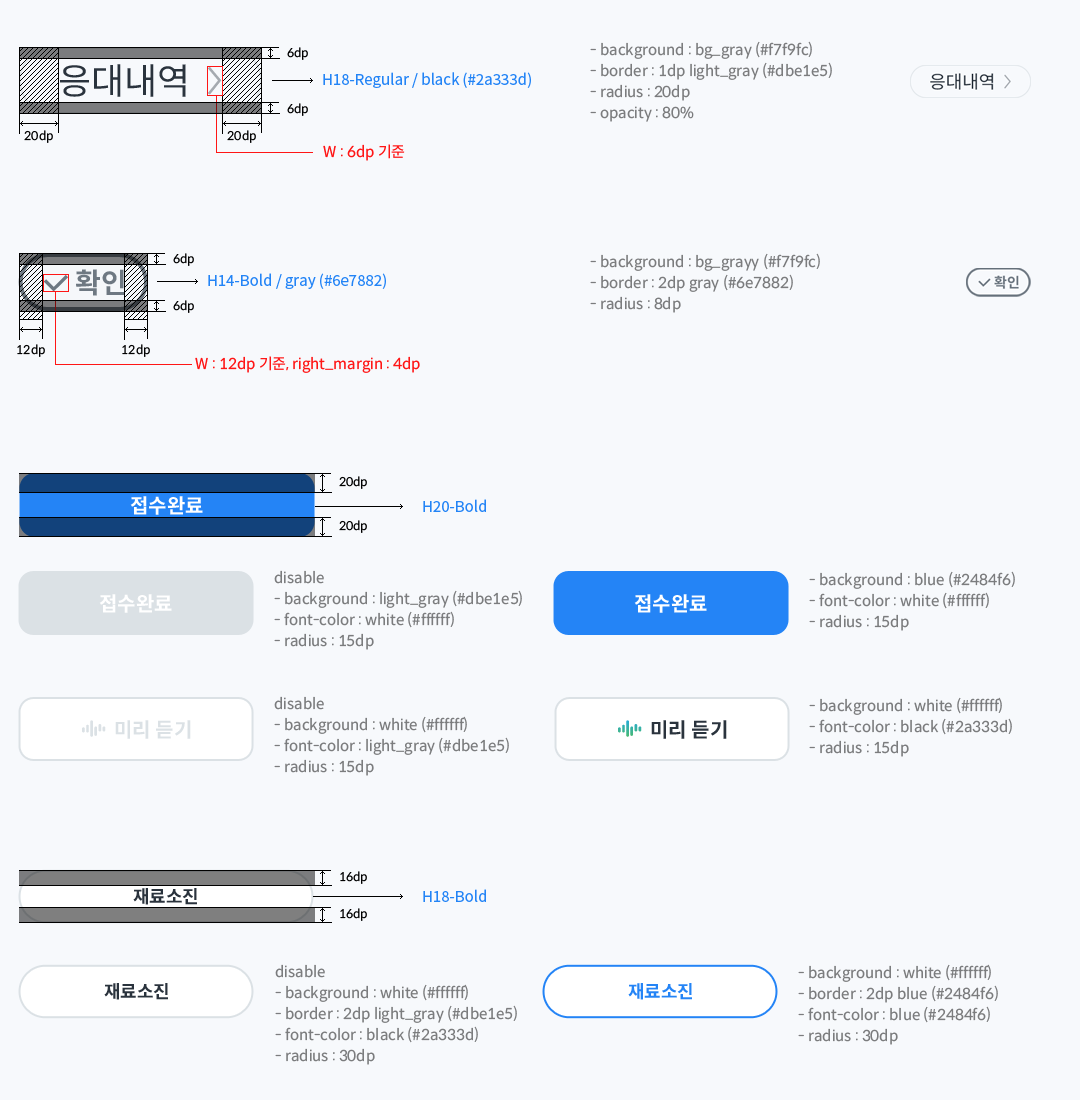
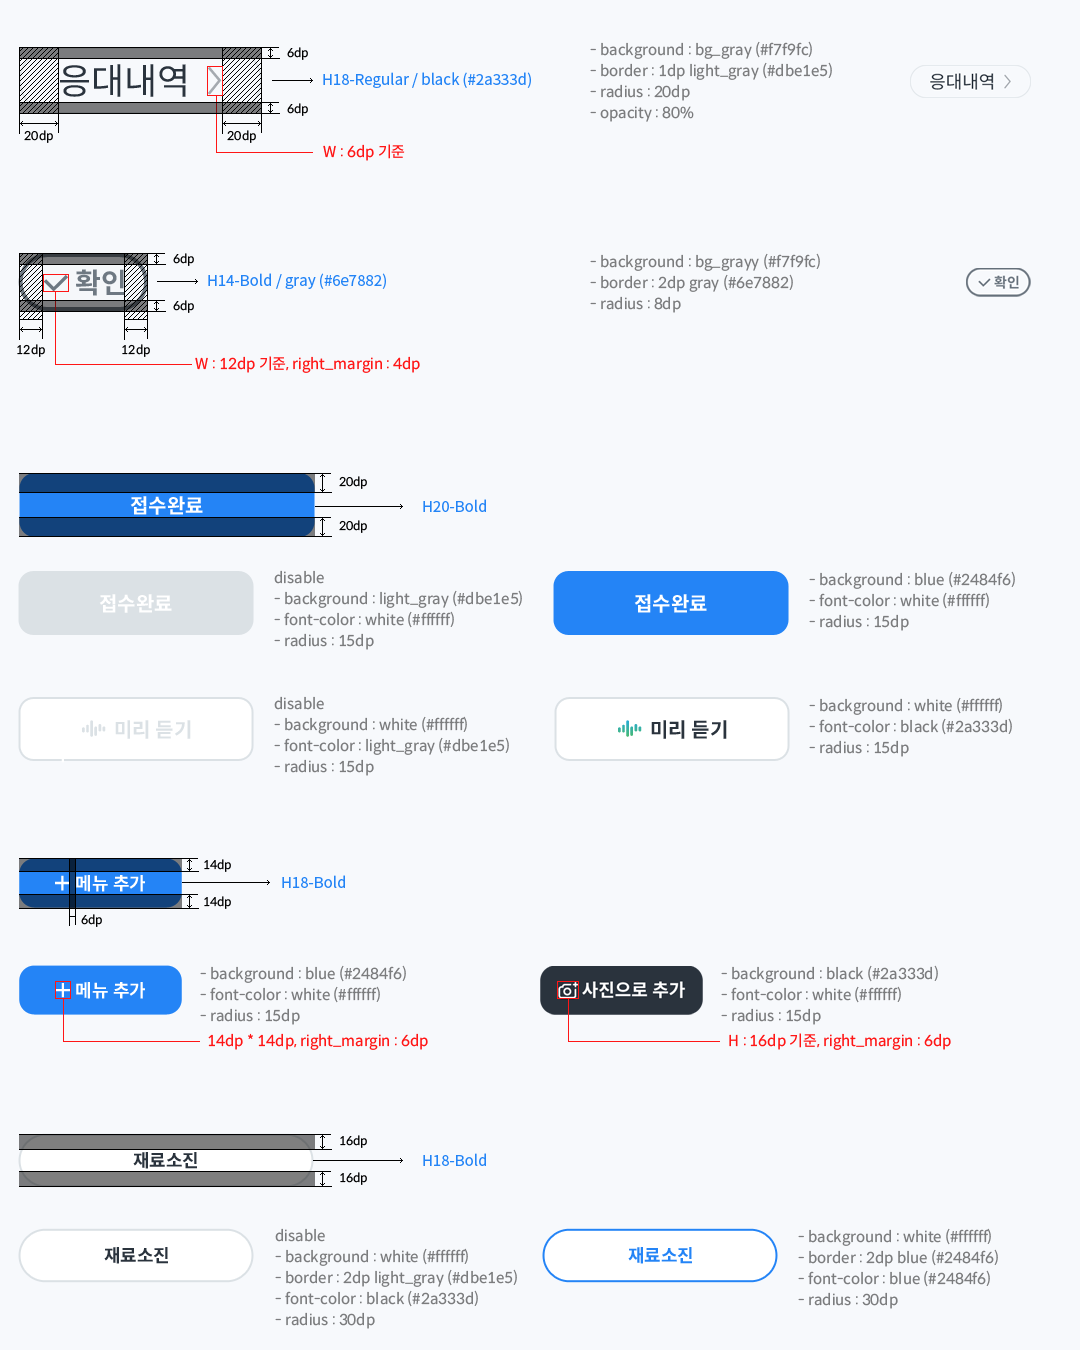
가이드추가

diff --git a/aicall_2/index.html b/aicall_2/index.html
@@ -226,10 +226,19 @@
 				<div class="sub_page">
 					<h1>마이페이지</h1>
 					<div class="img01">
-						<img src="images/mypage_guide.png" alt="마이페이지" /><br />
-						<img src="images/schedule_guide.png" alt="스케줄설정" /><br />
-						<img src="images/ment_guide.png" alt="멘트설정" /><br />
-						<img src="images/mypage_info_guide.png" alt="기본인사멘트설정" />
+						<img src="images/mypage_guide.png" alt="마이페이지" />
+					</div>
+					<div class="img01">
+						<img src="images/schedule_guide.png" alt="스케줄설정" />
+					</div>
+					<div class="img01">
+						<img src="images/ment_guide.png" alt="멘트설정" />
+					</div>
+					<div class="img01">
+						<img src="images/mypage_info_guide.png" alt="인사말설정" />
+					</div>
+					<div class="img01">
+						<img src="images/menu_setting_guide.png" alt="메뉴설정" />
 					</div>
 				</div>
 			</div>
@@ -273,6 +282,9 @@
 					</div>
 					<div class="img01">
 						<img src="images/alert_guide03.png" alt="불가사유 설정" />
+					</div>
+					<div class="img01">
+						<img src="images/menu_add_guide.png" alt="메뉴추가" />
 					</div>
 				</div>
 			</div>
